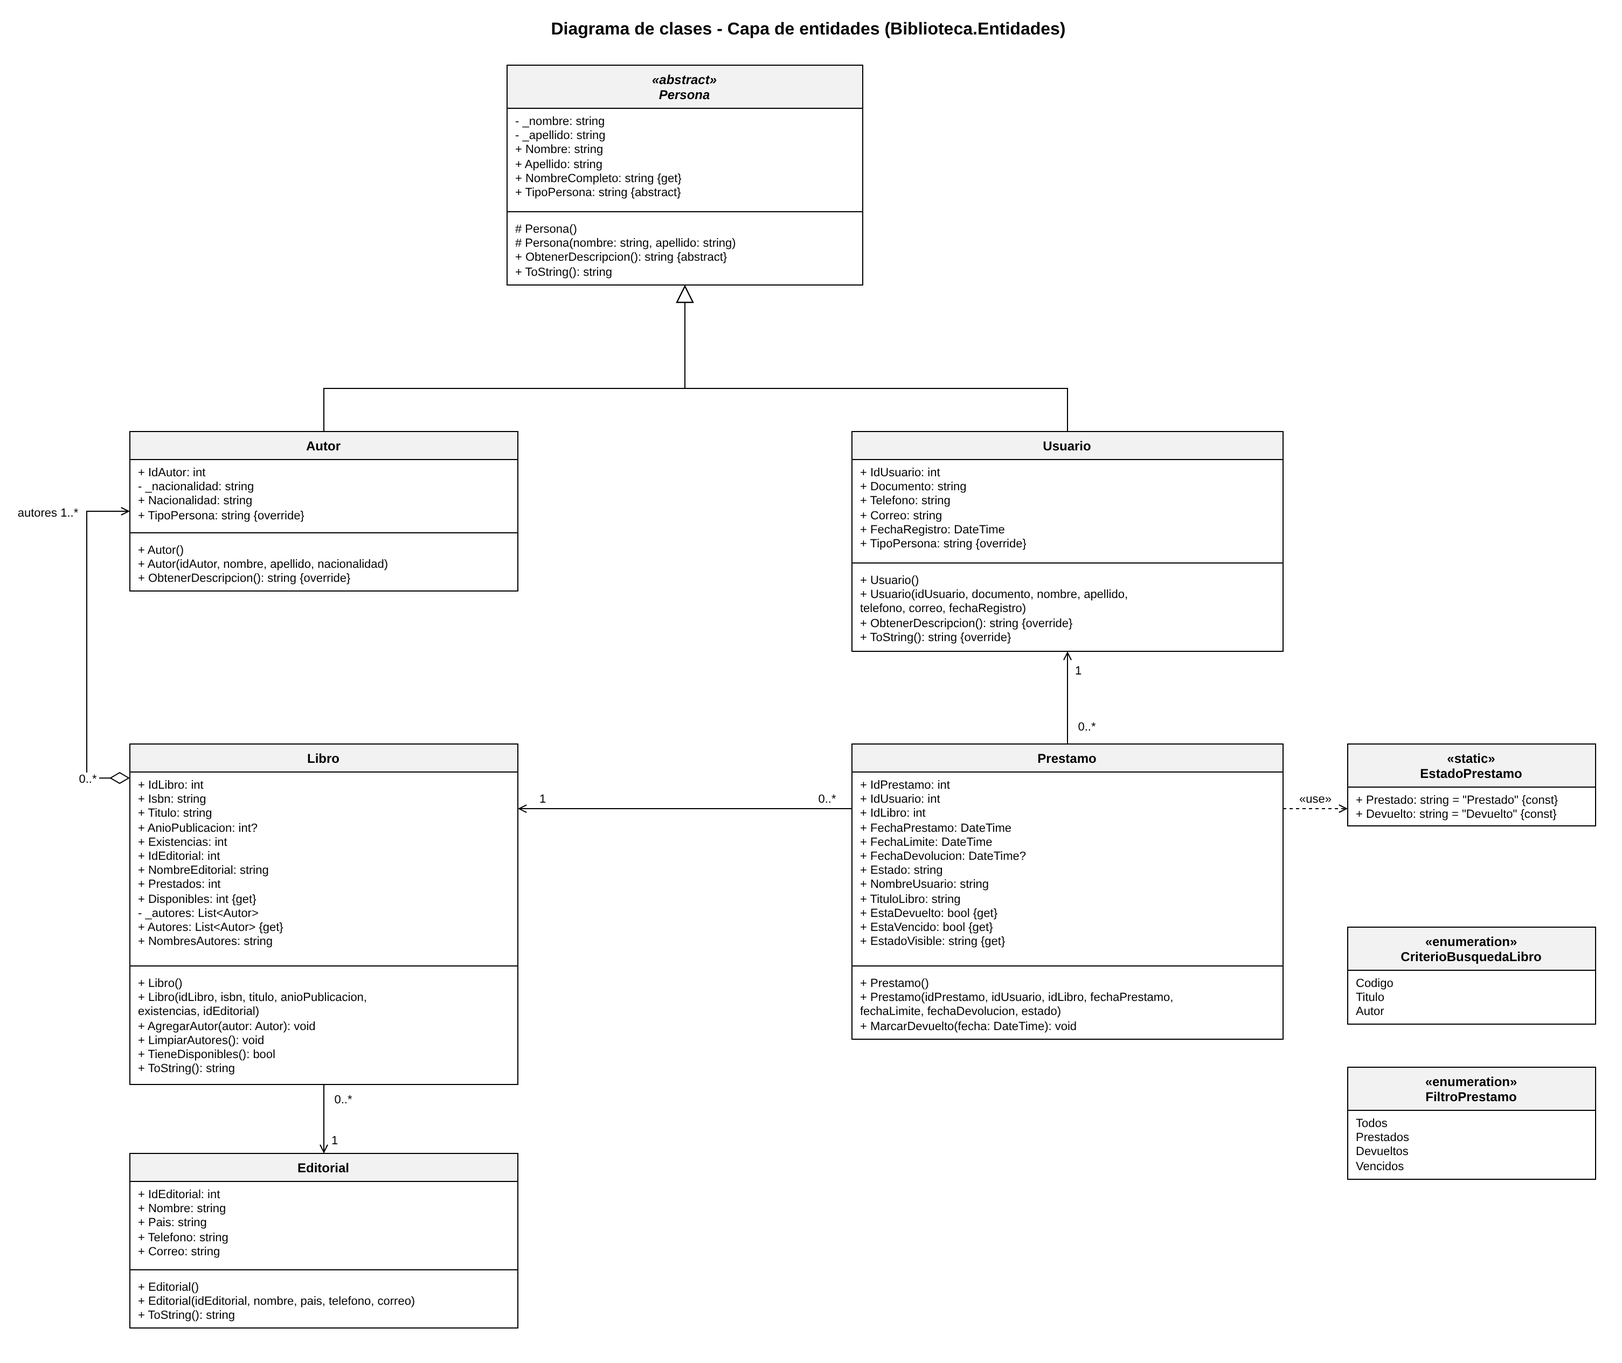
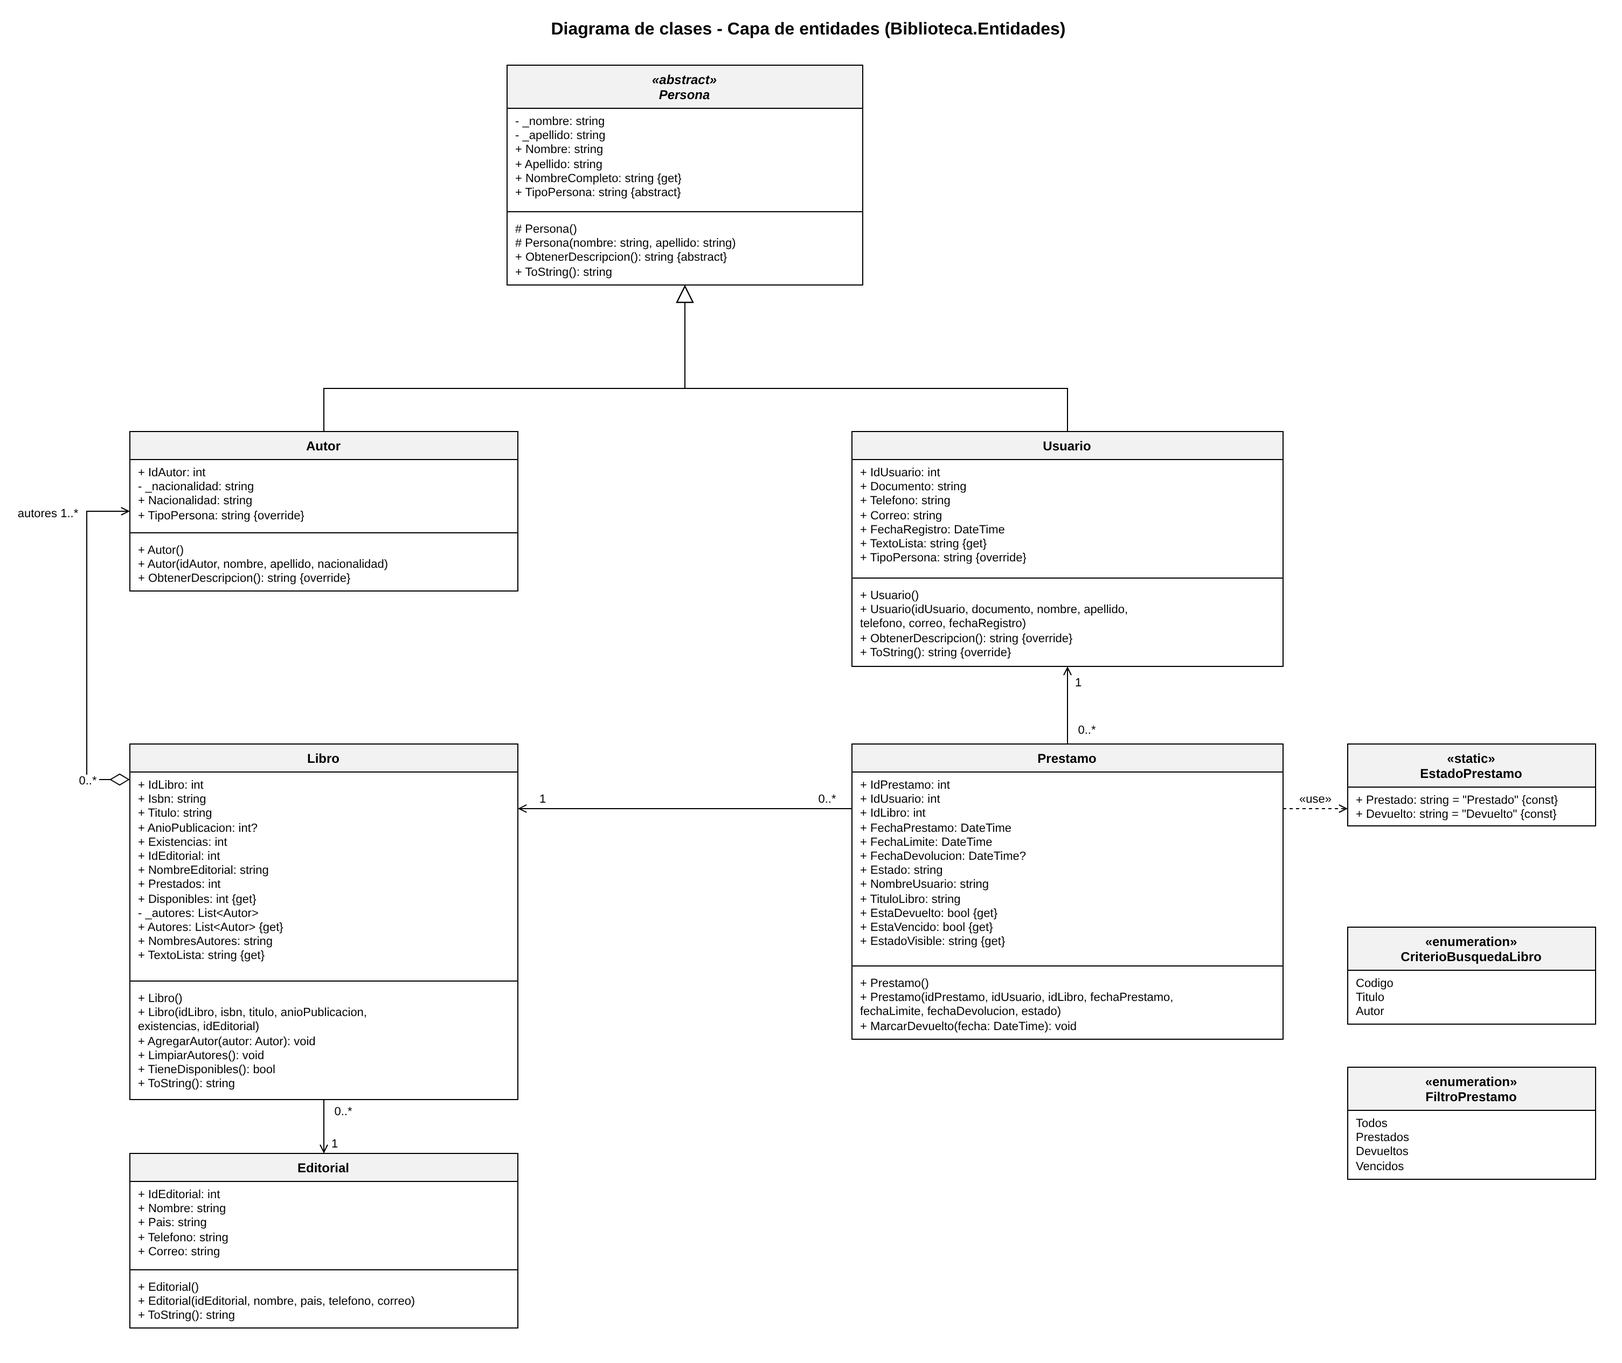
Mejorar la interfaz: atajos de teclado, listas desplegables y ventana maximizada

Changed region(s): [[0.5309, 0.4059, 0.687, 0.4996], [0.0937, 0.687, 0.2186, 0.8119]]

diff --git a/Biblioteca.Presentacion/Formularios/FrmPrincipal.Designer.cs b/Biblioteca.Presentacion/Formularios/FrmPrincipal.Designer.cs
@@ -128,7 +128,7 @@
             this.btnInicio.Name = "btnInicio";
             this.btnInicio.Size = new System.Drawing.Size(220, 46);
             this.btnInicio.TabIndex = 6;
-            this.btnInicio.Text = "   Inicio";
+            this.btnInicio.Text = "   &Inicio";
             this.btnInicio.Cursor = System.Windows.Forms.Cursors.Hand;
             this.btnInicio.FlatAppearance.BorderSize = 0;
             this.btnInicio.FlatStyle = System.Windows.Forms.FlatStyle.Flat;
@@ -145,7 +145,7 @@
             this.btnLibros.Name = "btnLibros";
             this.btnLibros.Size = new System.Drawing.Size(220, 46);
             this.btnLibros.TabIndex = 7;
-            this.btnLibros.Text = "   Libros";
+            this.btnLibros.Text = "   &Libros";
             this.btnLibros.Cursor = System.Windows.Forms.Cursors.Hand;
             this.btnLibros.FlatAppearance.BorderSize = 0;
             this.btnLibros.FlatStyle = System.Windows.Forms.FlatStyle.Flat;
@@ -162,7 +162,7 @@
             this.btnUsuarios.Name = "btnUsuarios";
             this.btnUsuarios.Size = new System.Drawing.Size(220, 46);
             this.btnUsuarios.TabIndex = 8;
-            this.btnUsuarios.Text = "   Usuarios";
+            this.btnUsuarios.Text = "   &Usuarios";
             this.btnUsuarios.Cursor = System.Windows.Forms.Cursors.Hand;
             this.btnUsuarios.FlatAppearance.BorderSize = 0;
             this.btnUsuarios.FlatStyle = System.Windows.Forms.FlatStyle.Flat;
@@ -179,7 +179,7 @@
             this.btnAutores.Name = "btnAutores";
             this.btnAutores.Size = new System.Drawing.Size(220, 46);
             this.btnAutores.TabIndex = 9;
-            this.btnAutores.Text = "   Autores";
+            this.btnAutores.Text = "   &Autores";
             this.btnAutores.Cursor = System.Windows.Forms.Cursors.Hand;
             this.btnAutores.FlatAppearance.BorderSize = 0;
             this.btnAutores.FlatStyle = System.Windows.Forms.FlatStyle.Flat;
@@ -196,7 +196,7 @@
             this.btnEditoriales.Name = "btnEditoriales";
             this.btnEditoriales.Size = new System.Drawing.Size(220, 46);
             this.btnEditoriales.TabIndex = 10;
-            this.btnEditoriales.Text = "   Editoriales";
+            this.btnEditoriales.Text = "   &Editoriales";
             this.btnEditoriales.Cursor = System.Windows.Forms.Cursors.Hand;
             this.btnEditoriales.FlatAppearance.BorderSize = 0;
             this.btnEditoriales.FlatStyle = System.Windows.Forms.FlatStyle.Flat;
@@ -213,7 +213,7 @@
             this.btnPrestamos.Name = "btnPrestamos";
             this.btnPrestamos.Size = new System.Drawing.Size(220, 46);
             this.btnPrestamos.TabIndex = 11;
-            this.btnPrestamos.Text = "   Préstamos";
+            this.btnPrestamos.Text = "   &Préstamos";
             this.btnPrestamos.Cursor = System.Windows.Forms.Cursors.Hand;
             this.btnPrestamos.FlatAppearance.BorderSize = 0;
             this.btnPrestamos.FlatStyle = System.Windows.Forms.FlatStyle.Flat;
@@ -230,7 +230,7 @@
             this.btnReportes.Name = "btnReportes";
             this.btnReportes.Size = new System.Drawing.Size(220, 46);
             this.btnReportes.TabIndex = 12;
-            this.btnReportes.Text = "   Reportes";
+            this.btnReportes.Text = "   Rep&ortes";
             this.btnReportes.Cursor = System.Windows.Forms.Cursors.Hand;
             this.btnReportes.FlatAppearance.BorderSize = 0;
             this.btnReportes.FlatStyle = System.Windows.Forms.FlatStyle.Flat;
@@ -248,7 +248,7 @@
             this.btnSalir.Name = "btnSalir";
             this.btnSalir.Size = new System.Drawing.Size(220, 46);
             this.btnSalir.TabIndex = 13;
-            this.btnSalir.Text = "   Salir";
+            this.btnSalir.Text = "   &Salir";
             this.btnSalir.Cursor = System.Windows.Forms.Cursors.Hand;
             this.btnSalir.FlatAppearance.BorderSize = 0;
             this.btnSalir.FlatStyle = System.Windows.Forms.FlatStyle.Flat;
@@ -266,6 +266,7 @@
             this.ClientSize = new System.Drawing.Size(1240, 700);
             this.MinimumSize = new System.Drawing.Size(1100, 680);
             this.StartPosition = System.Windows.Forms.FormStartPosition.CenterScreen;
+            this.WindowState = System.Windows.Forms.FormWindowState.Maximized;
             this.Controls.Add(this.pnlContenido);
             this.Controls.Add(this.pnlEncabezado);
             this.Controls.Add(this.pnlMenu);

diff --git a/Biblioteca.Presentacion/Formularios/FrmEditoriales.Designer.cs b/Biblioteca.Presentacion/Formularios/FrmEditoriales.Designer.cs
@@ -150,7 +150,7 @@
             this.btnGuardar.Name = "btnGuardar";
             this.btnGuardar.Size = new System.Drawing.Size(120, 34);
             this.btnGuardar.TabIndex = 10;
-            this.btnGuardar.Text = "Guardar";
+            this.btnGuardar.Text = "&Guardar";
             this.btnGuardar.UseVisualStyleBackColor = true;
             this.btnGuardar.Click += new System.EventHandler(this.btnGuardar_Click);
             // 
@@ -160,7 +160,7 @@
             this.btnEliminar.Name = "btnEliminar";
             this.btnEliminar.Size = new System.Drawing.Size(120, 34);
             this.btnEliminar.TabIndex = 11;
-            this.btnEliminar.Text = "Eliminar";
+            this.btnEliminar.Text = "Eli&minar";
             this.btnEliminar.UseVisualStyleBackColor = true;
             this.btnEliminar.Click += new System.EventHandler(this.btnEliminar_Click);
             // 
@@ -170,7 +170,7 @@
             this.btnLimpiar.Name = "btnLimpiar";
             this.btnLimpiar.Size = new System.Drawing.Size(120, 34);
             this.btnLimpiar.TabIndex = 12;
-            this.btnLimpiar.Text = "Nuevo / Limpiar";
+            this.btnLimpiar.Text = "&Nuevo / Limpiar";
             this.btnLimpiar.UseVisualStyleBackColor = true;
             this.btnLimpiar.Click += new System.EventHandler(this.btnLimpiar_Click);
             // 
@@ -221,7 +221,7 @@
             this.btnBuscar.Name = "btnBuscar";
             this.btnBuscar.Size = new System.Drawing.Size(85, 29);
             this.btnBuscar.TabIndex = 17;
-            this.btnBuscar.Text = "Buscar";
+            this.btnBuscar.Text = "&Buscar";
             this.btnBuscar.UseVisualStyleBackColor = true;
             this.btnBuscar.Click += new System.EventHandler(this.btnBuscar_Click);
             // 
@@ -231,7 +231,7 @@
             this.btnVerTodos.Name = "btnVerTodos";
             this.btnVerTodos.Size = new System.Drawing.Size(85, 29);
             this.btnVerTodos.TabIndex = 18;
-            this.btnVerTodos.Text = "Ver todos";
+            this.btnVerTodos.Text = "&Ver todos";
             this.btnVerTodos.UseVisualStyleBackColor = true;
             this.btnVerTodos.Click += new System.EventHandler(this.btnVerTodos_Click);
             // 

diff --git a/Biblioteca.Presentacion/Formularios/FrmLibros.Designer.cs b/Biblioteca.Presentacion/Formularios/FrmLibros.Designer.cs
@@ -224,7 +224,7 @@
             this.btnGuardar.Name = "btnGuardar";
             this.btnGuardar.Size = new System.Drawing.Size(120, 34);
             this.btnGuardar.TabIndex = 16;
-            this.btnGuardar.Text = "Guardar";
+            this.btnGuardar.Text = "&Guardar";
             this.btnGuardar.UseVisualStyleBackColor = true;
             this.btnGuardar.Click += new System.EventHandler(this.btnGuardar_Click);
             // 
@@ -234,7 +234,7 @@
             this.btnEliminar.Name = "btnEliminar";
             this.btnEliminar.Size = new System.Drawing.Size(120, 34);
             this.btnEliminar.TabIndex = 17;
-            this.btnEliminar.Text = "Eliminar";
+            this.btnEliminar.Text = "Eli&minar";
             this.btnEliminar.UseVisualStyleBackColor = true;
             this.btnEliminar.Click += new System.EventHandler(this.btnEliminar_Click);
             // 
@@ -244,7 +244,7 @@
             this.btnLimpiar.Name = "btnLimpiar";
             this.btnLimpiar.Size = new System.Drawing.Size(120, 34);
             this.btnLimpiar.TabIndex = 18;
-            this.btnLimpiar.Text = "Nuevo / Limpiar";
+            this.btnLimpiar.Text = "&Nuevo / Limpiar";
             this.btnLimpiar.UseVisualStyleBackColor = true;
             this.btnLimpiar.Click += new System.EventHandler(this.btnLimpiar_Click);
             // 
@@ -295,7 +295,7 @@
             this.btnBuscar.Name = "btnBuscar";
             this.btnBuscar.Size = new System.Drawing.Size(85, 29);
             this.btnBuscar.TabIndex = 23;
-            this.btnBuscar.Text = "Buscar";
+            this.btnBuscar.Text = "&Buscar";
             this.btnBuscar.UseVisualStyleBackColor = true;
             this.btnBuscar.Click += new System.EventHandler(this.btnBuscar_Click);
             // 
@@ -305,7 +305,7 @@
             this.btnVerTodos.Name = "btnVerTodos";
             this.btnVerTodos.Size = new System.Drawing.Size(85, 29);
             this.btnVerTodos.TabIndex = 24;
-            this.btnVerTodos.Text = "Ver todos";
+            this.btnVerTodos.Text = "&Ver todos";
             this.btnVerTodos.UseVisualStyleBackColor = true;
             this.btnVerTodos.Click += new System.EventHandler(this.btnVerTodos_Click);
             // 

diff --git a/Biblioteca.Presentacion/Formularios/FrmUsuarios.Designer.cs b/Biblioteca.Presentacion/Formularios/FrmUsuarios.Designer.cs
@@ -191,7 +191,7 @@
             this.btnGuardar.Name = "btnGuardar";
             this.btnGuardar.Size = new System.Drawing.Size(120, 34);
             this.btnGuardar.TabIndex = 14;
-            this.btnGuardar.Text = "Guardar";
+            this.btnGuardar.Text = "&Guardar";
             this.btnGuardar.UseVisualStyleBackColor = true;
             this.btnGuardar.Click += new System.EventHandler(this.btnGuardar_Click);
             // 
@@ -201,7 +201,7 @@
             this.btnEliminar.Name = "btnEliminar";
             this.btnEliminar.Size = new System.Drawing.Size(120, 34);
             this.btnEliminar.TabIndex = 15;
-            this.btnEliminar.Text = "Eliminar";
+            this.btnEliminar.Text = "Eli&minar";
             this.btnEliminar.UseVisualStyleBackColor = true;
             this.btnEliminar.Click += new System.EventHandler(this.btnEliminar_Click);
             // 
@@ -211,7 +211,7 @@
             this.btnLimpiar.Name = "btnLimpiar";
             this.btnLimpiar.Size = new System.Drawing.Size(120, 34);
             this.btnLimpiar.TabIndex = 16;
-            this.btnLimpiar.Text = "Nuevo / Limpiar";
+            this.btnLimpiar.Text = "&Nuevo / Limpiar";
             this.btnLimpiar.UseVisualStyleBackColor = true;
             this.btnLimpiar.Click += new System.EventHandler(this.btnLimpiar_Click);
             // 
@@ -262,7 +262,7 @@
             this.btnBuscar.Name = "btnBuscar";
             this.btnBuscar.Size = new System.Drawing.Size(85, 29);
             this.btnBuscar.TabIndex = 21;
-            this.btnBuscar.Text = "Buscar";
+            this.btnBuscar.Text = "&Buscar";
             this.btnBuscar.UseVisualStyleBackColor = true;
             this.btnBuscar.Click += new System.EventHandler(this.btnBuscar_Click);
             // 
@@ -272,7 +272,7 @@
             this.btnVerTodos.Name = "btnVerTodos";
             this.btnVerTodos.Size = new System.Drawing.Size(85, 29);
             this.btnVerTodos.TabIndex = 22;
-            this.btnVerTodos.Text = "Ver todos";
+            this.btnVerTodos.Text = "&Ver todos";
             this.btnVerTodos.UseVisualStyleBackColor = true;
             this.btnVerTodos.Click += new System.EventHandler(this.btnVerTodos_Click);
             // 

diff --git a/Biblioteca.Presentacion/Formularios/FrmAutores.Designer.cs b/Biblioteca.Presentacion/Formularios/FrmAutores.Designer.cs
@@ -130,7 +130,7 @@
             this.btnGuardar.Name = "btnGuardar";
             this.btnGuardar.Size = new System.Drawing.Size(120, 34);
             this.btnGuardar.TabIndex = 8;
-            this.btnGuardar.Text = "Guardar";
+            this.btnGuardar.Text = "&Guardar";
             this.btnGuardar.UseVisualStyleBackColor = true;
             this.btnGuardar.Click += new System.EventHandler(this.btnGuardar_Click);
             // 
@@ -140,7 +140,7 @@
             this.btnEliminar.Name = "btnEliminar";
             this.btnEliminar.Size = new System.Drawing.Size(120, 34);
             this.btnEliminar.TabIndex = 9;
-            this.btnEliminar.Text = "Eliminar";
+            this.btnEliminar.Text = "Eli&minar";
             this.btnEliminar.UseVisualStyleBackColor = true;
             this.btnEliminar.Click += new System.EventHandler(this.btnEliminar_Click);
             // 
@@ -150,7 +150,7 @@
             this.btnLimpiar.Name = "btnLimpiar";
             this.btnLimpiar.Size = new System.Drawing.Size(120, 34);
             this.btnLimpiar.TabIndex = 10;
-            this.btnLimpiar.Text = "Nuevo / Limpiar";
+            this.btnLimpiar.Text = "&Nuevo / Limpiar";
             this.btnLimpiar.UseVisualStyleBackColor = true;
             this.btnLimpiar.Click += new System.EventHandler(this.btnLimpiar_Click);
             // 
@@ -201,7 +201,7 @@
             this.btnBuscar.Name = "btnBuscar";
             this.btnBuscar.Size = new System.Drawing.Size(85, 29);
             this.btnBuscar.TabIndex = 15;
-            this.btnBuscar.Text = "Buscar";
+            this.btnBuscar.Text = "&Buscar";
             this.btnBuscar.UseVisualStyleBackColor = true;
             this.btnBuscar.Click += new System.EventHandler(this.btnBuscar_Click);
             // 
@@ -211,7 +211,7 @@
             this.btnVerTodos.Name = "btnVerTodos";
             this.btnVerTodos.Size = new System.Drawing.Size(85, 29);
             this.btnVerTodos.TabIndex = 16;
-            this.btnVerTodos.Text = "Ver todos";
+            this.btnVerTodos.Text = "&Ver todos";
             this.btnVerTodos.UseVisualStyleBackColor = true;
             this.btnVerTodos.Click += new System.EventHandler(this.btnVerTodos_Click);
             // 

diff --git a/Biblioteca.Presentacion/Formularios/FrmPrestamos.Designer.cs b/Biblioteca.Presentacion/Formularios/FrmPrestamos.Designer.cs
@@ -169,7 +169,7 @@
             this.btnGuardar.Name = "btnGuardar";
             this.btnGuardar.Size = new System.Drawing.Size(185, 34);
             this.btnGuardar.TabIndex = 11;
-            this.btnGuardar.Text = "Registrar préstamo";
+            this.btnGuardar.Text = "Re&gistrar préstamo";
             this.btnGuardar.UseVisualStyleBackColor = true;
             this.btnGuardar.Click += new System.EventHandler(this.btnGuardar_Click);
             // 
@@ -179,7 +179,7 @@
             this.btnEliminar.Name = "btnEliminar";
             this.btnEliminar.Size = new System.Drawing.Size(95, 34);
             this.btnEliminar.TabIndex = 12;
-            this.btnEliminar.Text = "Eliminar";
+            this.btnEliminar.Text = "Eli&minar";
             this.btnEliminar.UseVisualStyleBackColor = true;
             this.btnEliminar.Click += new System.EventHandler(this.btnEliminar_Click);
             // 
@@ -189,7 +189,7 @@
             this.btnLimpiar.Name = "btnLimpiar";
             this.btnLimpiar.Size = new System.Drawing.Size(95, 34);
             this.btnLimpiar.TabIndex = 13;
-            this.btnLimpiar.Text = "Limpiar";
+            this.btnLimpiar.Text = "&Nuevo";
             this.btnLimpiar.UseVisualStyleBackColor = true;
             this.btnLimpiar.Click += new System.EventHandler(this.btnLimpiar_Click);
             // 
@@ -226,7 +226,7 @@
             this.btnDevolver.Name = "btnDevolver";
             this.btnDevolver.Size = new System.Drawing.Size(180, 32);
             this.btnDevolver.TabIndex = 17;
-            this.btnDevolver.Text = "Registrar devolución";
+            this.btnDevolver.Text = "Registrar &devolución";
             this.btnDevolver.UseVisualStyleBackColor = true;
             this.btnDevolver.Click += new System.EventHandler(this.btnDevolver_Click);
             // 

diff --git a/Biblioteca.Presentacion/Formularios/FrmPrestamos.cs b/Biblioteca.Presentacion/Formularios/FrmPrestamos.cs
@@ -84,10 +84,12 @@ namespace Biblioteca.Presentacion.Formularios
             try
             {
                 cboUsuario.DataSource = _usuarioNegocio.Listar();
+                cboUsuario.DisplayMember = "TextoLista";
                 cboUsuario.ValueMember = "IdUsuario";
                 cboUsuario.SelectedIndex = -1;
 
                 cboLibro.DataSource = soloLibrosDisponibles ? _libroNegocio.ListarDisponibles() : _libroNegocio.Listar();
+                cboLibro.DisplayMember = "TextoLista";
                 cboLibro.ValueMember = "IdLibro";
                 cboLibro.SelectedIndex = -1;
             }
@@ -111,7 +113,7 @@ namespace Biblioteca.Presentacion.Formularios
 
             HabilitarDatos(true);
             lblEstado.Text = "Estado: nuevo préstamo";
-            btnGuardar.Text = "Registrar préstamo";
+            btnGuardar.Text = "Re&gistrar préstamo";
             btnGuardar.Enabled = true;
             btnEliminar.Enabled = false;
             grpDevolucion.Enabled = false;
@@ -164,7 +166,7 @@ namespace Biblioteca.Presentacion.Formularios
                         ? "Estado: vencido (" + (DateTime.Today - prestamo.FechaLimite.Date).Days + " días de retraso)"
                         : "Estado: prestado";
                     HabilitarDatos(true);
-                    btnGuardar.Text = "Guardar cambios";
+                    btnGuardar.Text = "&Guardar cambios";
                     btnGuardar.Enabled = true;
                     grpDevolucion.Enabled = true;
                     dtpFechaDevolucion.MinDate = DateTimePicker.MinimumDateTime;

diff --git a/Biblioteca.Presentacion/Formularios/FrmPrincipal.cs b/Biblioteca.Presentacion/Formularios/FrmPrincipal.cs
@@ -25,7 +25,8 @@ namespace Biblioteca.Presentacion.Formularios
         private void FrmPrincipal_Load(object sender, EventArgs e)
         {
             CultureInfo cultura = new CultureInfo("es-CO");
-            lblFecha.Text = cultura.TextInfo.ToTitleCase(DateTime.Today.ToString("dddd, d 'de' MMMM 'de' yyyy", cultura));
+            string fecha = DateTime.Today.ToString("dddd, d 'de' MMMM 'de' yyyy", cultura);
+            lblFecha.Text = char.ToUpper(fecha[0], cultura) + fecha.Substring(1);
             AbrirModulo(new FrmInicio(), btnInicio, "Inicio");
         }
 

diff --git a/Biblioteca.Presentacion/Utilidades/Estilos.cs b/Biblioteca.Presentacion/Utilidades/Estilos.cs
@@ -30,6 +30,9 @@ namespace Biblioteca.Presentacion.Utilidades
             dgv.DefaultCellStyle.SelectionBackColor = ColorSeleccion;
             dgv.DefaultCellStyle.SelectionForeColor = Color.Black;
             dgv.AlternatingRowsDefaultCellStyle.BackColor = Color.FromArgb(247, 249, 251);
+
+            // Al cargar datos no se deja ninguna fila seleccionada
+            dgv.DataBindingComplete += (sender, e) => dgv.ClearSelection();
         }
 
         /// <summary>Cambia los encabezados de las columnas. Recibe pares: nombre, texto.</summary>

diff --git a/Biblioteca.Presentacion/Formularios/FrmInicio.Designer.cs b/Biblioteca.Presentacion/Formularios/FrmInicio.Designer.cs
@@ -228,7 +228,7 @@
             this.btnActualizar.Name = "btnActualizar";
             this.btnActualizar.Size = new System.Drawing.Size(120, 32);
             this.btnActualizar.TabIndex = 16;
-            this.btnActualizar.Text = "Actualizar";
+            this.btnActualizar.Text = "Ac&tualizar";
             this.btnActualizar.UseVisualStyleBackColor = true;
             this.btnActualizar.Click += new System.EventHandler(this.btnActualizar_Click);
             // 

diff --git a/Biblioteca.Entidades/Libro.cs b/Biblioteca.Entidades/Libro.cs
@@ -88,9 +88,14 @@ namespace Biblioteca.Entidades
         }
 
         /// <summary>Texto que se muestra en las listas desplegables.</summary>
+        public string TextoLista
+        {
+            get { return Titulo + " (disponibles: " + Disponibles + ")"; }
+        }
+
         public override string ToString()
         {
-            return Titulo + " (disponibles: " + Disponibles + ")";
+            return TextoLista;
         }
     }
 }

diff --git a/Biblioteca.Presentacion/Formularios/FrmReportes.Designer.cs b/Biblioteca.Presentacion/Formularios/FrmReportes.Designer.cs
@@ -93,7 +93,7 @@
             this.btnGenerar.Name = "btnGenerar";
             this.btnGenerar.Size = new System.Drawing.Size(120, 32);
             this.btnGenerar.TabIndex = 5;
-            this.btnGenerar.Text = "Generar";
+            this.btnGenerar.Text = "&Generar";
             this.btnGenerar.UseVisualStyleBackColor = true;
             this.btnGenerar.Click += new System.EventHandler(this.btnGenerar_Click);
             // 
